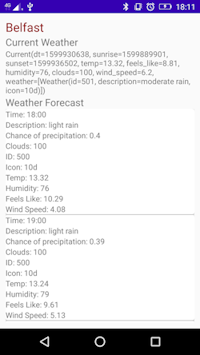
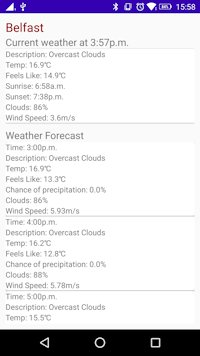
Adding labels for weather fields. Changing the current weather result into  card view.

Changed region(s): [[0.03, 0.093, 0.96, 0.9296], [0.0, 0.0, 1.0, 0.093]]

diff --git a/app/src/main/java/com/android/runweather/activities/ResultActivity.java b/app/src/main/java/com/android/runweather/activities/ResultActivity.java
@@ -16,6 +16,8 @@ import com.android.runweather.models.Weather.WeatherVO;
 import com.android.runweather.tasks.WeatherTask;
 import com.android.runweather.utils.FormattingUtils;
 
+import org.apache.commons.lang3.text.WordUtils;
+
 import java.util.List;
 import java.util.concurrent.ExecutionException;
 
@@ -25,7 +27,7 @@ import java.util.concurrent.ExecutionException;
 public class ResultActivity extends ListActivity implements AsyncResponse {
 
     ImageView image;
-    TextView cityText, currentDate, currentTemp, currentFeels, sunrise, sunset, clouds, currentDesc;
+    TextView cityText, currentWeatherLabel, currentTemp, currentFeels, sunrise, sunset, clouds, currentDesc, currentWind;
     ListView lvWeather;
 
     @Override
@@ -82,25 +84,30 @@ public class ResultActivity extends ListActivity implements AsyncResponse {
 
     private void setCurrentWeatherFields(WeatherVO weatherList) {
         Current currentWeatherVO = weatherList.getCurrent();
-        currentDate.setText(FormattingUtils.formatDateTime(Integer.toString(currentWeatherVO.getDt())));
+
+        String currentLabel = String.format("Current weather at %s", FormattingUtils.formatDateTime(Integer.toString(currentWeatherVO.getDt())));
+        currentWeatherLabel.setText(currentLabel);
+
         currentTemp.setText(FormattingUtils.formatTemperature(currentWeatherVO.getTemp()));
         currentFeels.setText(FormattingUtils.formatTemperature(currentWeatherVO.getFeels_like()));
-        sunrise.setText(currentWeatherVO.getSunrise());
-        sunset.setText(currentWeatherVO.getSunset());
-        clouds.setText(currentWeatherVO.getClouds());
-        currentDesc.setText(currentWeatherVO.getWeather().get(0).description);
+        sunrise.setText(FormattingUtils.formatDateTime(Integer.toString(currentWeatherVO.getSunrise())));
+        sunset.setText(FormattingUtils.formatDateTime(Integer.toString(currentWeatherVO.getSunset())));
+        clouds.setText(String.format("%s%%", currentWeatherVO.getClouds()));
+        currentDesc.setText(WordUtils.capitalize(currentWeatherVO.getWeather().get(0).description));
+        currentWind.setText(String.format("%sm/s", currentWeatherVO.wind_speed));
     }
 
     private void initComponents() {
         image = findViewById(R.id.condIcon);
+        currentWeatherLabel = findViewById(R.id.currentWeatherLabel);
         cityText = findViewById(R.id.cityText);
-        currentDate = findViewById(R.id.currentDate);
         currentTemp = findViewById(R.id.currentTemp);
         currentFeels = findViewById(R.id.currentFeels);
         sunrise = findViewById(R.id.sunrise);
         sunset = findViewById(R.id.sunset);
         clouds = findViewById(R.id.clouds);
         currentDesc = findViewById(R.id.currentDesc);
+        currentWind = findViewById(R.id.currentWind);
     }
 
     @Override

diff --git a/app/src/main/java/com/android/runweather/adapters/WeatherAdapter.java b/app/src/main/java/com/android/runweather/adapters/WeatherAdapter.java
@@ -14,6 +14,8 @@ import com.android.runweather.R;
 import com.android.runweather.models.Weather.Hourly;
 import com.android.runweather.utils.FormattingUtils;
 
+import org.apache.commons.lang3.text.WordUtils;
+
 /**
  * Adapter to display the hourly weather results
  */
@@ -60,12 +62,12 @@ public class WeatherAdapter extends ArrayAdapter<Hourly> {
 
         //set UI text fields
         dt_txt.setText(FormattingUtils.formatDateTime(Integer.toString(item.getDt())));
-        description.setText(item.getWeather().get(0).getDescription());
-        precip.setText(Double.toString(item.getPop()));
-        clouds.setText(Integer.toString(item.getClouds()));
+        description.setText(WordUtils.capitalize(item.getWeather().get(0).getDescription()));
+        precip.setText(String.format("%s%%", item.getPop()));
+        clouds.setText(String.format("%s%%", item.getClouds()));
         temp.setText(FormattingUtils.formatTemperature(item.getTemp()));
         feelsLike.setText(FormattingUtils.formatTemperature(item.getFeels_like()));
-        speed.setText(String.valueOf(item.getWind_speed()));
+        speed.setText(String.format("%sm/s", item.wind_speed));
     }
 
 

diff --git a/app/src/main/java/com/android/runweather/utils/FormattingUtils.java b/app/src/main/java/com/android/runweather/utils/FormattingUtils.java
@@ -18,7 +18,7 @@ public class FormattingUtils {
             long longDate = Long.parseLong(strDate) * 1000;
             Date date = new Date();
             date.setTime(longDate);
-            SimpleDateFormat sdf = new SimpleDateFormat("HH:mm", Locale.UK);
+            SimpleDateFormat sdf = new SimpleDateFormat("h:mma", Locale.getDefault());
             return sdf.format(date);
         } catch (NumberFormatException ex) {
             return "Error getting time";

diff --git a/app/src/test/java/com/android/runweather/utils/FormattingUtilsTest.java b/app/src/test/java/com/android/runweather/utils/FormattingUtilsTest.java
@@ -11,7 +11,7 @@ public class FormattingUtilsTest {
 
     @Test
     public void testGetValidDateString() {
-        String expectedTime = "16:00";
+        String expectedTime = "4:00PM";
         String actualTime = FormattingUtils.formatDateTime("1599836400");
         assertEquals("should display valid time", expectedTime, actualTime);
     }
